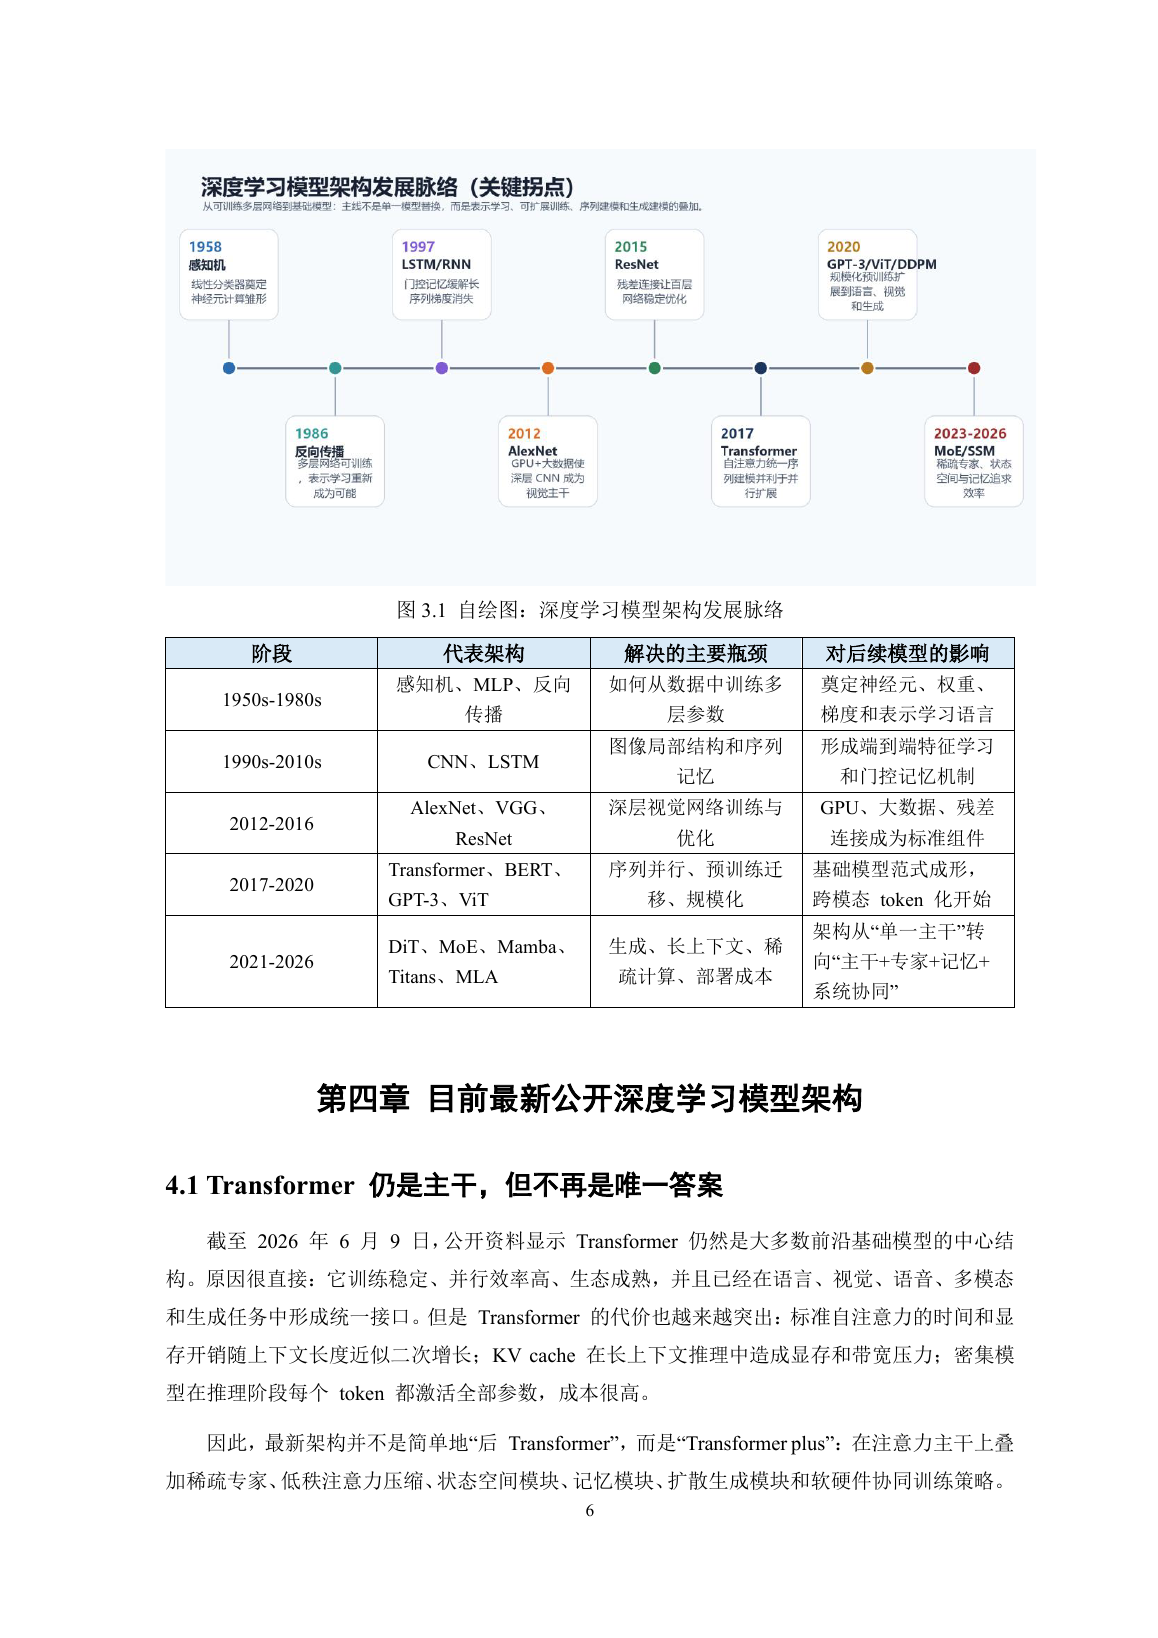
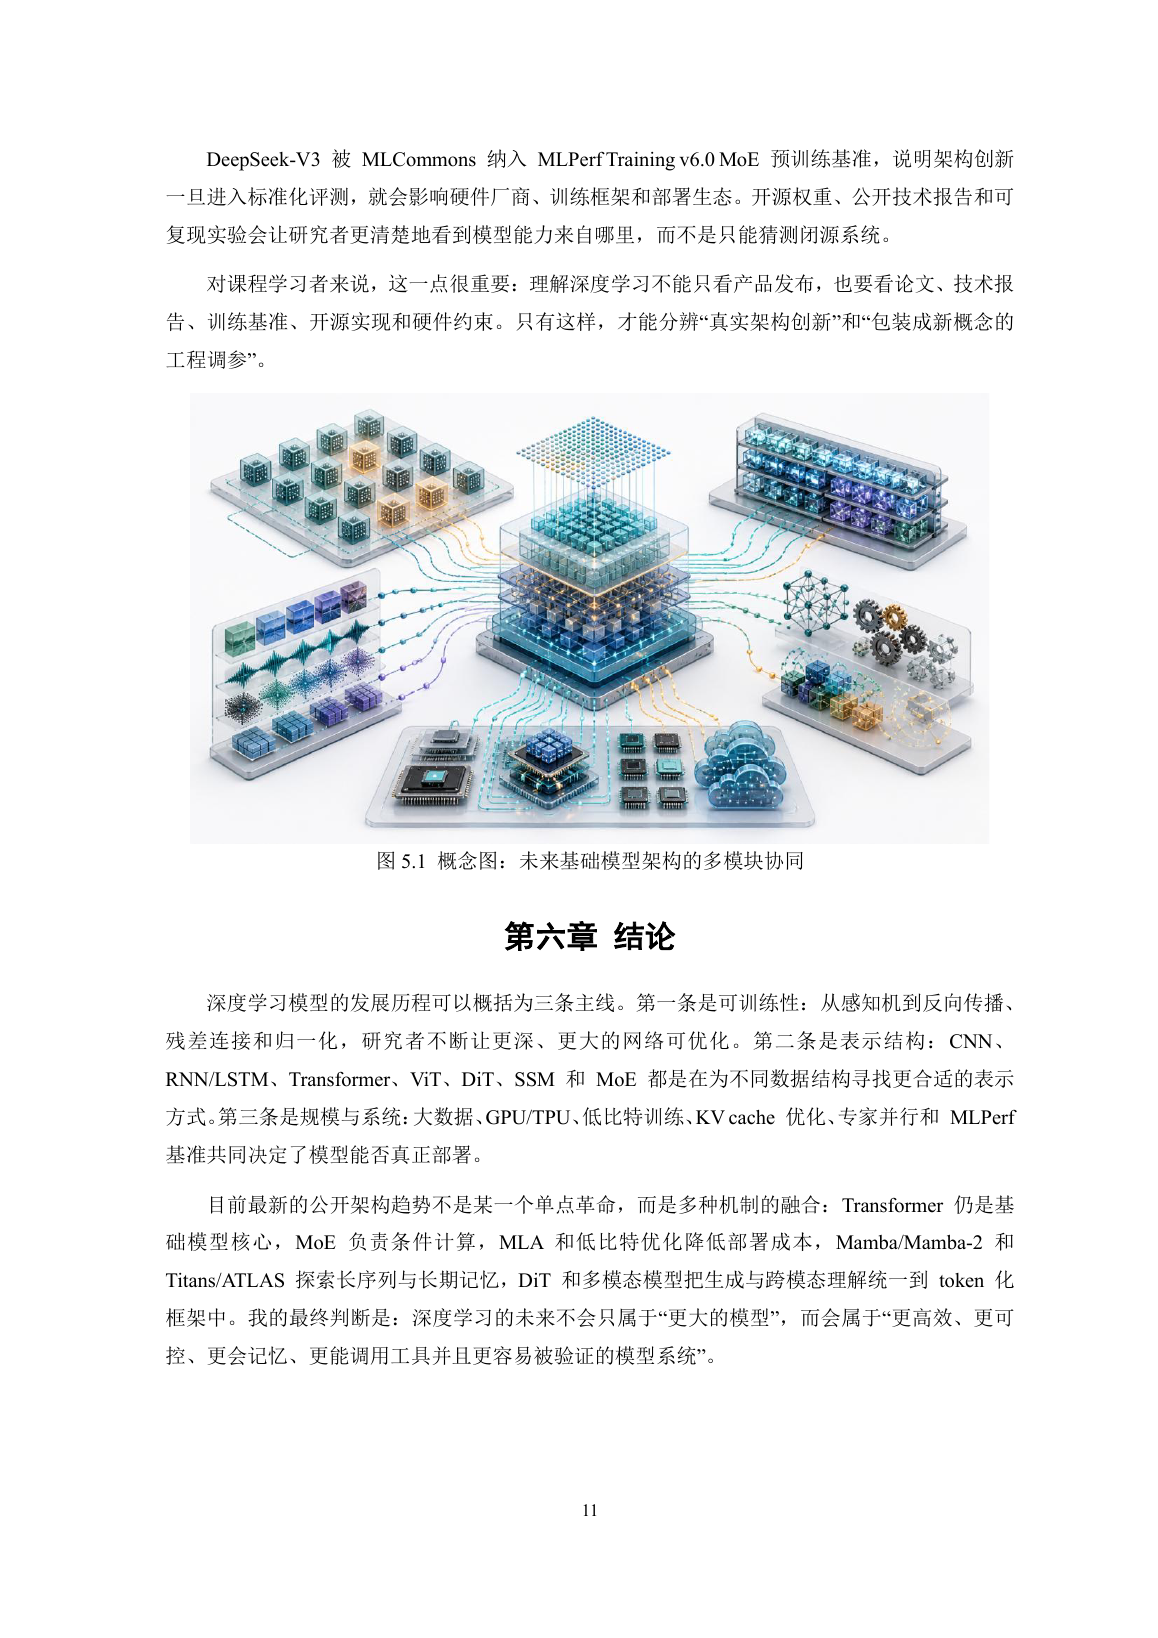
Use page 11 for report figure demo

Changed region(s): [[0.1244, 0.0934, 0.8705, 0.9341]]

diff --git a/README.md b/README.md
@@ -42,11 +42,11 @@
 
 | 文件 | 说明 |
 | --- | --- |
-| [`deep-learning-architecture-report-demo.docx`](docs/deep-learning-architecture-report-demo.docx) | 修订后的 Word 示例报告 |
-| [`deep-learning-architecture-report-demo.pdf`](docs/deep-learning-architecture-report-demo.pdf) | Word COM 导出的 PDF 示例 |
+| [`deep-learning-architecture-report-demo.docx`](docs/deep-learning-architecture-report-demo.docx) | 已上传到 GitHub 的修订版 Word 示例产出 |
+| [`deep-learning-architecture-report-demo.pdf`](docs/deep-learning-architecture-report-demo.pdf) | 已上传到 GitHub 的 Word COM 导出 PDF 示例产出 |
 | [`deep-learning-demo-cover.png`](docs/deep-learning-demo-cover.png) | 封面页渲染预览 |
 | [`deep-learning-demo-toc.png`](docs/deep-learning-demo-toc.png) | 目录页渲染预览 |
-| [`deep-learning-demo-figure.png`](docs/deep-learning-demo-figure.png) | 图表页渲染预览 |
+| [`deep-learning-demo-figure.png`](docs/deep-learning-demo-figure.png) | 第 11 页正式图注与页面级检查预览 |
 
 ### 封面：只占第一页
 
@@ -60,10 +60,10 @@
   <img src="docs/deep-learning-demo-toc.png" width="680" alt="修订版报告目录预览">
 </p>
 
-### 图表：正式图注与页面级检查
+### 图表：正式图注与页面级检查（第 11 页）
 
 <p align="center">
-  <img src="docs/deep-learning-demo-figure.png" width="680" alt="修订版报告图表页预览">
+  <img src="docs/deep-learning-demo-figure.png" width="680" alt="修订版报告第 11 页正式图注与页面级检查预览">
 </p>
 
 <a id="highlights"></a>
